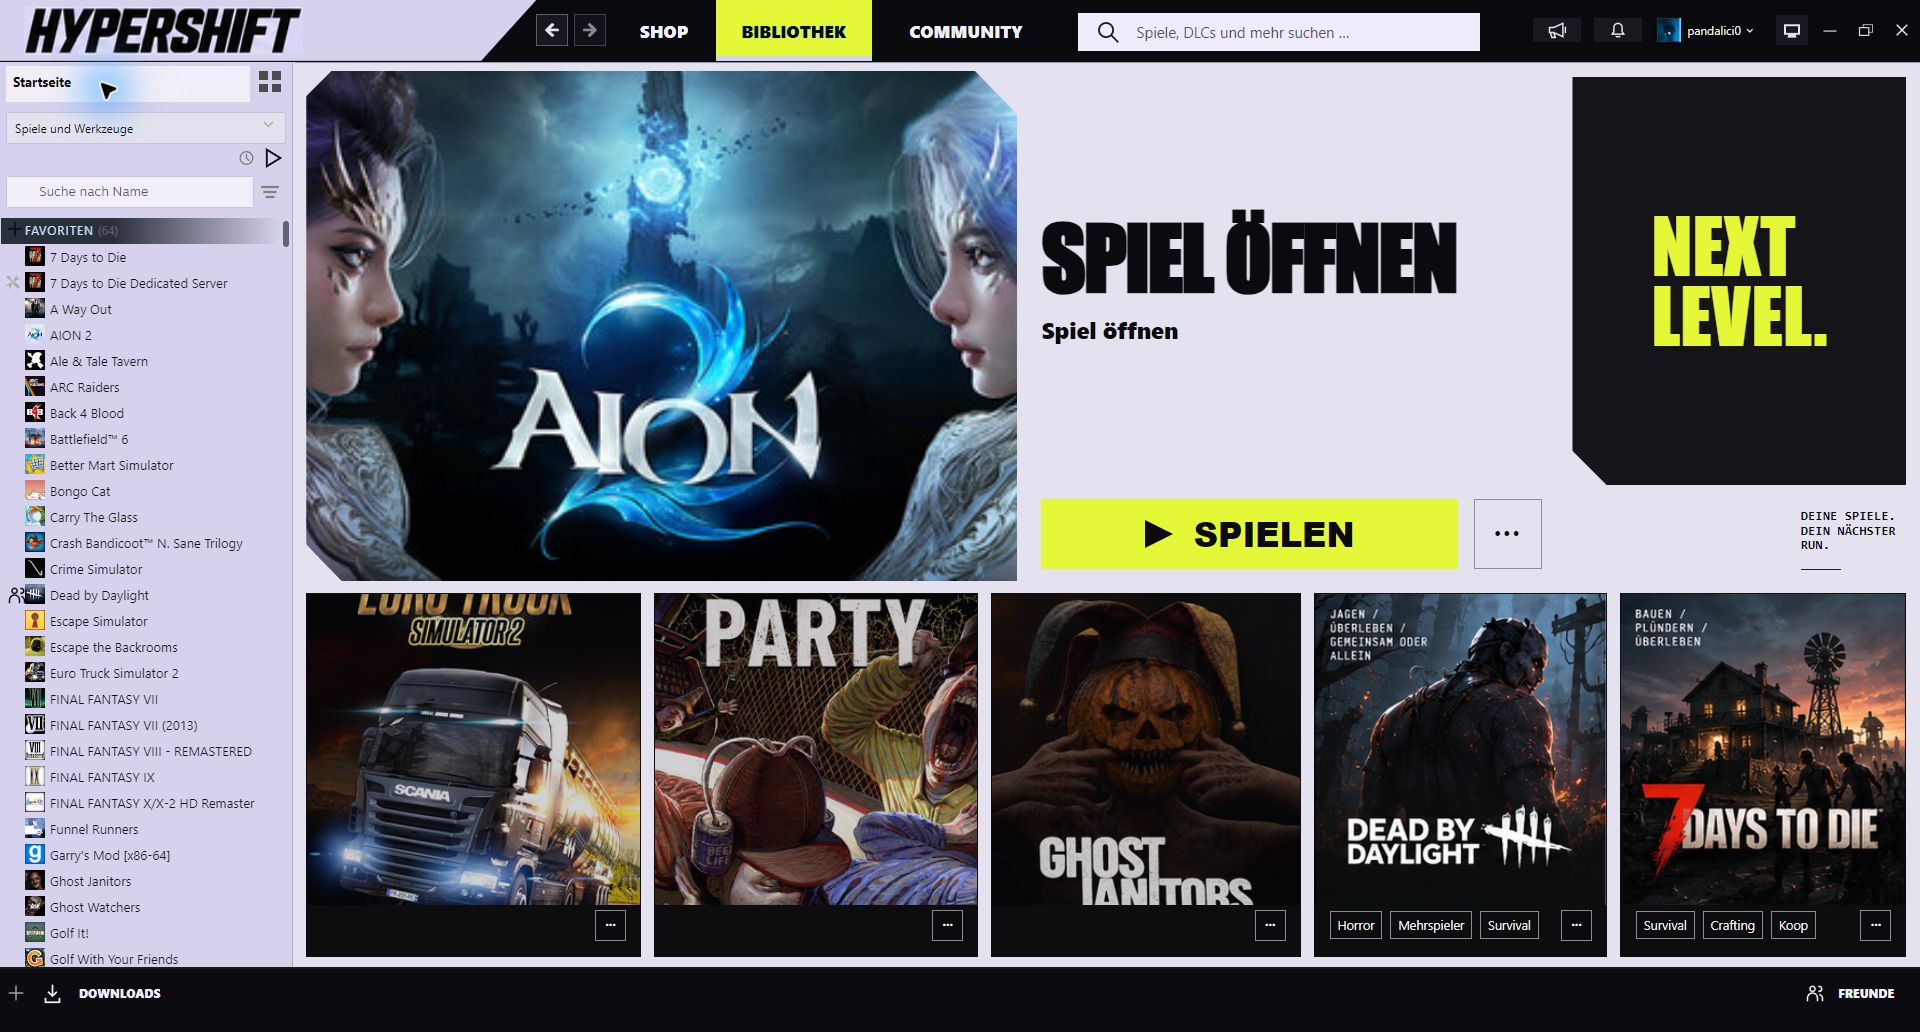
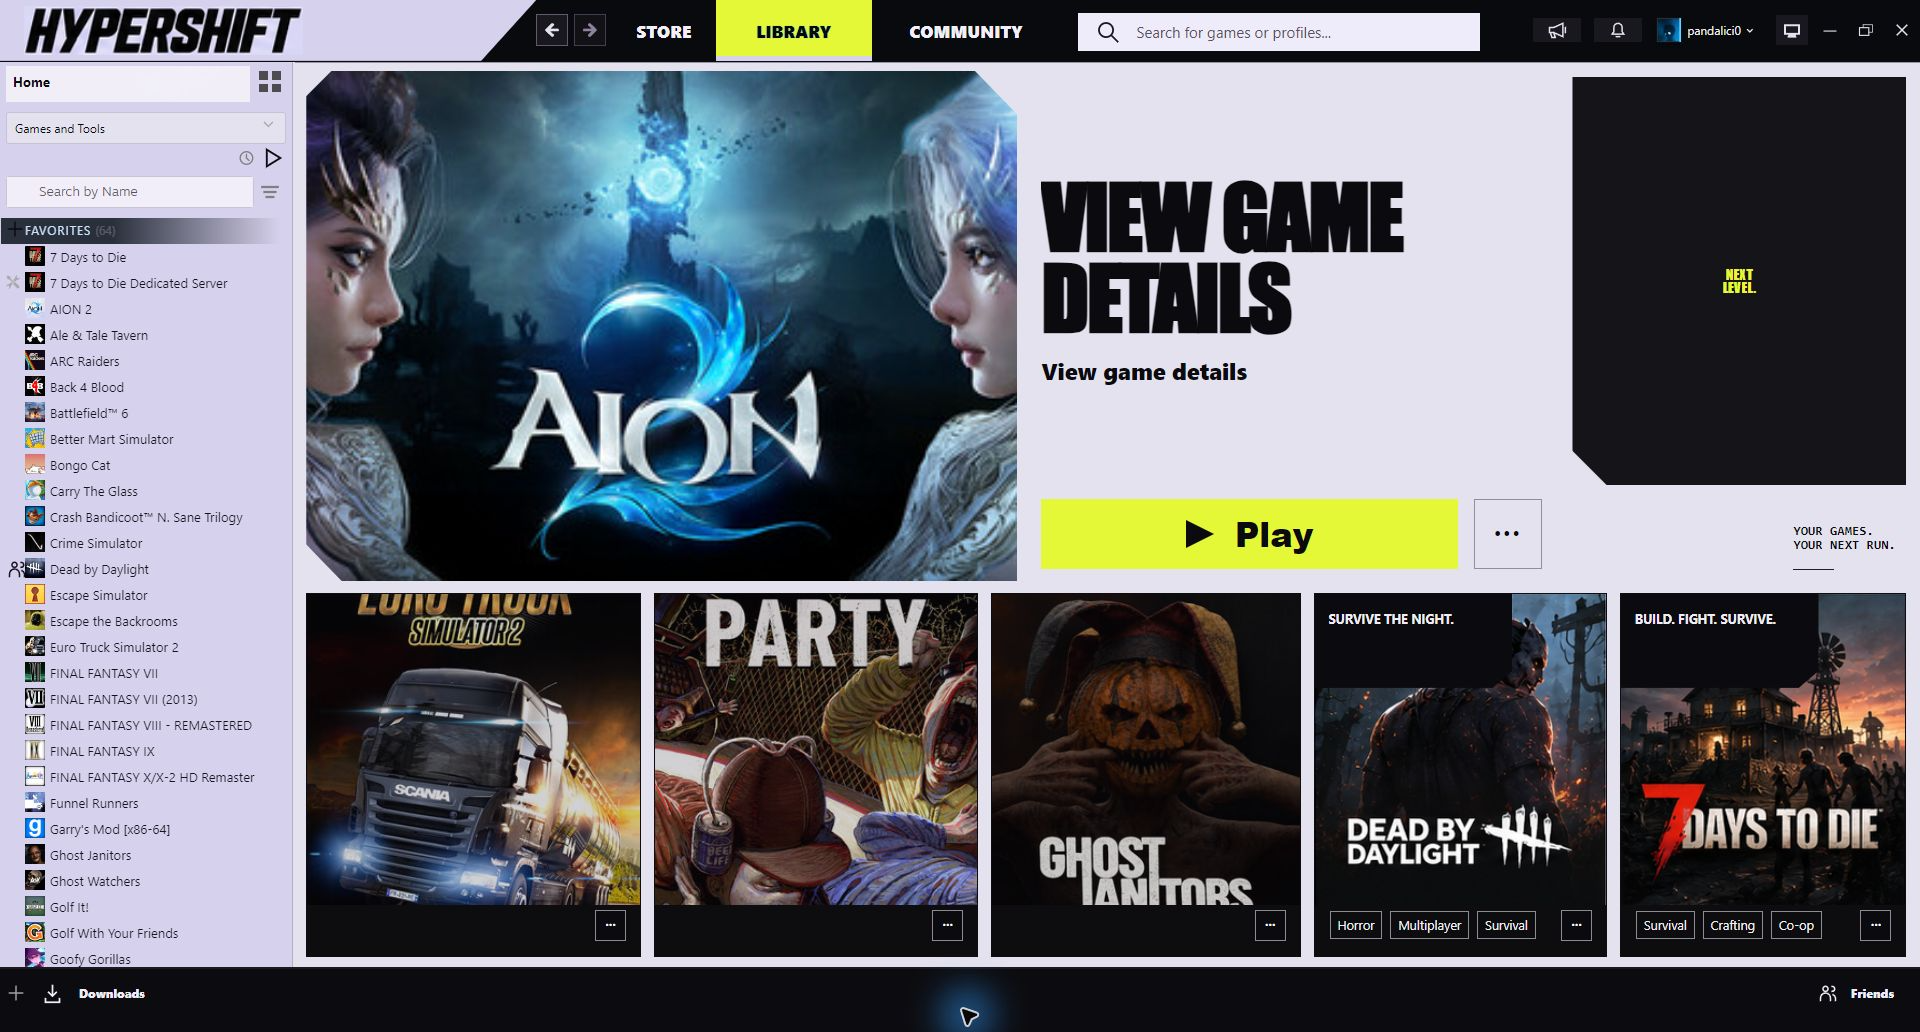
Refresh previews with authentic English HYPERSHIFT 1.8.0 captures

diff --git a/docs/PREVIEWS.md b/docs/PREVIEWS.md
@@ -1,10 +1,12 @@
 # HYPERSHIFT preview kit
 
-By **pandalici0**, based on HYPERSHIFT **1.7.2**.
+By **pandalici0**, based on HYPERSHIFT **1.8.0**.
 
-The gallery uses actual screenshots from the running Windows Steam client with installed HYPERSHIFT 1.7.2, captured on **6 October 2026**. Contact names and third-party avatars are visibly masked. Other UI pixels retain the original layout. The chat conversation and download queue were empty at capture time; no messages, contacts, controls or transfer values were invented. The side-by-side social view combines the two real windows on a plain background.
+The gallery uses actual screenshots from the running Windows Steam client with installed HYPERSHIFT 1.8.0, captured in English on **6 October 2026**. Contact names and third-party avatars are visibly masked, including the clipped activity contact on the game detail page. Other UI pixels retain the original layout. The chat conversation and download queue were empty at capture time; no messages, contacts, controls or transfer values were invented. The side-by-side social view combines the two real windows on a plain background.
 
 Promotional frames surround these same captures. Game imagery and trademarks remain excluded from the MIT code license; see [NOTICE](../NOTICE.md).
+
+The screenshots are static English previews; the installed theme follows Steam's interface language. [Capture metadata](images/captures.json) records the original window sizes, capture state and privacy masks.
 
 ## Promotional images
 
@@ -14,7 +16,7 @@ Promotional frames surround these same captures. Game imagery and trademarks rem
 | [02-library](images/promo/02-library.png) | 1920 × 1080 | Library showcase |
 | [03-game-details](images/promo/03-game-details.png) | 1920 × 1080 | Play button, statistics and achievements |
 | [04-friends-chat](images/promo/04-friends-chat.png) | 1920 × 1080 | Friends, chat and voice controls |
-| [05-downloads](images/promo/05-downloads.png) | 1920 × 1080 | Native transfer graph and empty queue |
+| [05-downloads](images/promo/05-downloads.png) | 1920 × 1080 | Transfer statistics and empty queue |
 | [06-settings](images/promo/06-settings.png) | 1920 × 1080 | Actual Steam download settings |
 | [github-social-1280x640](images/promo/github-social-1280x640.png) | 1280 × 640 | Repository social preview |
 | [social-card-1200x630](images/promo/social-card-1200x630.png) | 1200 × 630 | Link preview / social post |
@@ -33,7 +35,7 @@ Each image has a PNG original and a JPG version with the same name. Use JPG for 
 
 ## Rebuild the promotional layouts
 
-The current captures are the inputs. The compositor uses HTML/CSS and Playwright, without remote assets or access to Steam.
+The current captures are the inputs. The compositor uses HTML/CSS and Playwright, without remote assets or access to Steam. It checks the capture version against `skin.json` so an older gallery cannot silently be labeled as a newer theme.
 
 ```sh
 npm install

diff --git a/README.de.md b/README.de.md
@@ -57,7 +57,7 @@ node --check libraryroot.custom.js
 
 [Vollständige Galerie und Bildformate](docs/PREVIEWS.md). Alle Motive sind als PNG und JPG enthalten.
 
-Alle Galerie-Bilder sind echte Aufnahmen aus dem laufenden Windows-Steam mit HYPERSHIFT 1.7.2 vom 6. Oktober 2026. Kontaktnamen und fremde Avatare sind sichtbar abgedeckt. Chat und Download-Warteschlange waren bei der Aufnahme leer. Die Werberahmen verändern die aufgenommene Oberfläche nicht. Spielebilder und Marken gehören ihren jeweiligen Rechteinhabern.
+Alle Galerie-Bilder sind echte Aufnahmen aus dem laufenden Windows-Steam mit HYPERSHIFT 1.8.0 auf Englisch vom 6. Oktober 2026. Kontaktnamen und fremde Avatare sind sichtbar abgedeckt. Chat und Download-Warteschlange waren bei der Aufnahme leer. Die Werberahmen verändern die aufgenommene Oberfläche nicht. Spielebilder und Marken gehören ihren jeweiligen Rechteinhabern.
 
 Entwickelt für den Windows-Steam-Desktop und Millennium 3.5.0. Theme-Texte folgen Steams eingestellter Sprache: alle 30 auswählbaren Oberflächensprachen und zusätzlich optional Arabisch. Siehe [Sprachunterstützung](docs/LOCALIZATION.md). Shop/Community erhalten Aktionsakzente. Big Picture bekommt Farbakzente und kein vollständiges Desktop-Layout.
 

diff --git a/README.md b/README.md
@@ -47,7 +47,7 @@ The repository also has ready-built files: a clone or source archive can be plac
 | --- | --- |
 | ![Actual friends window](docs/images/friends.png) | ![Actual chat window](docs/images/chat.png) |
 
-All gallery images are screenshots from the running Windows Steam client with HYPERSHIFT 1.7.2, captured on 6 October 2026. Contact names and third-party avatars are visibly masked. The chat was empty and the download queue was empty at capture time. The promotional frames do not change the captured interface. Game artwork and trademarks belong to their owners.
+All gallery images are screenshots from the running Windows Steam client with HYPERSHIFT 1.8.0, captured in English on 6 October 2026. Contact names and third-party avatars are visibly masked, including the clipped activity contact on the game detail page. The chat was empty and the download queue was empty at capture time. The promotional frames do not change the captured interface. Game artwork and trademarks belong to their owners.
 
 ## Development
 

diff --git a/docs/LOCALIZATION.md b/docs/LOCALIZATION.md
@@ -30,4 +30,4 @@ node tests/localization.cjs
 
 Tests cover all catalogs across three library viewport sizes, live switching with selection/search retained, native actions, configuration identifiers, region aliases, detail labels, English fallback and CSS-only login. Longer headlines/buttons fit the available space; non-Latin text uses suitable font fallbacks. Translations have automated completeness/layout checks; they have not all been independently reviewed by native speakers or exercised in live Steam.
 
-Public gallery images remain authentic German Steam captures of 1.7.2 from 6 October 2026. Static screenshots do not change language with Steam and are not presented as captures of every locale.
+Public gallery images are authentic English Steam captures of 1.8.0 from 6 October 2026. Static screenshots do not change language with Steam and are not presented as captures of every locale.
